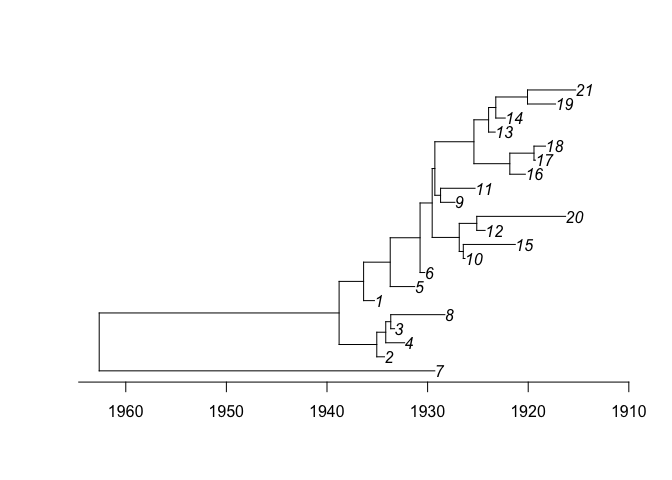
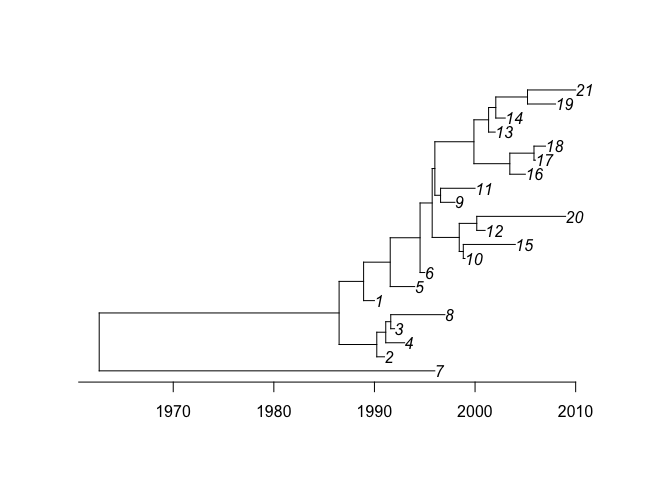
Updated README

diff --git a/README.md b/README.md
@@ -28,7 +28,7 @@ This is a basic example of usage. First we generate a coalescent tree with a sin
 ``` r
 tree=simcoaltree(1990:2010)
 plot(tree)
-axisPhylo()
+ape::axisPhylo(backward=F)
 ```
 
 ![](figures/README-unnamed-chunk-3-1.png)
@@ -40,14 +40,19 @@ obsphy=simobsphy(tree)
 r=roottotip(obsphy,1990:2010)
 ```
 
-![](figures/README-unnamed-chunk-4-1.png) We can run the dating analysis on this phylogeny as follows:
+![](figures/README-unnamed-chunk-4-1.png)
+
+We can run the dating analysis on this phylogeny as follows:
 
 ``` r
 res=credate(obsphy,1990:2010)
 plot(res,'treeCI')
 ```
 
-![](figures/README-unnamed-chunk-5-1.png) \#\# More information and getting help
+![](figures/README-unnamed-chunk-5-1.png)
+
+More information and getting help
+---------------------------------
 
 For more detailed examples of how to use CreDating, see the vignettes [here](https://github.com/xavierdidelot/CreDating/tree/master/vignettes). See also the help included in the package using the R command `help(package='CreDating')`.
 
